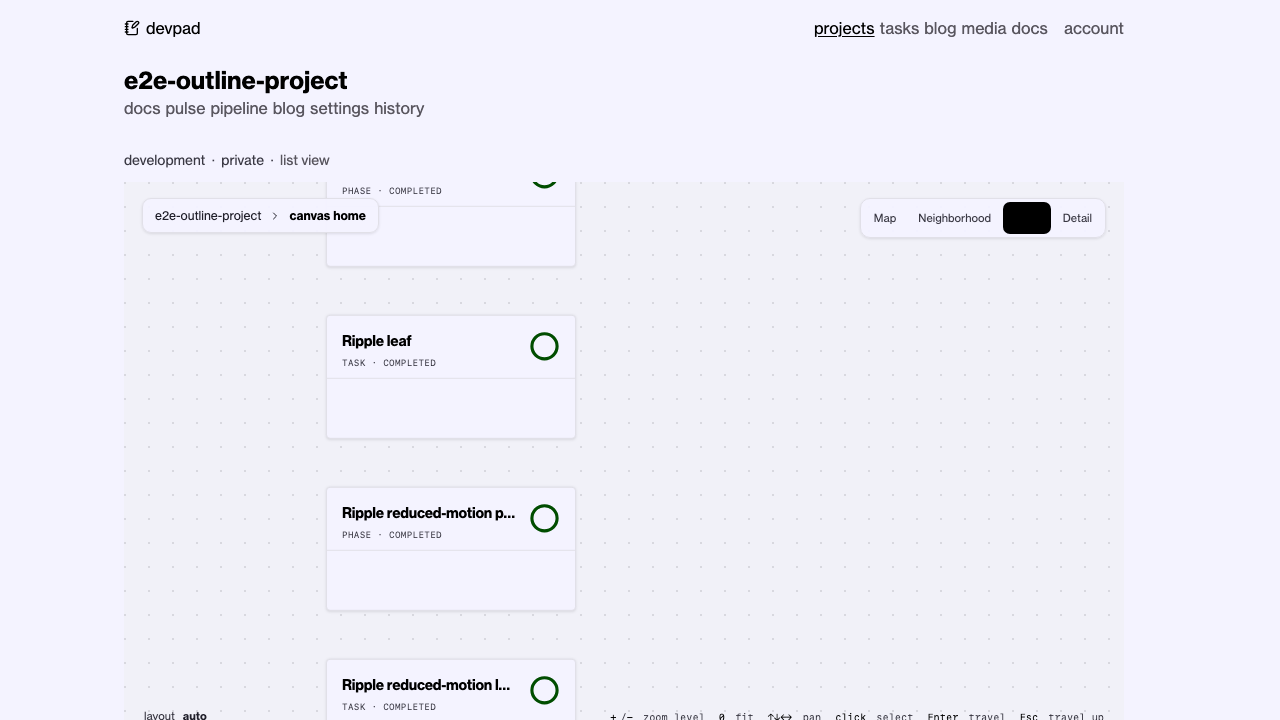
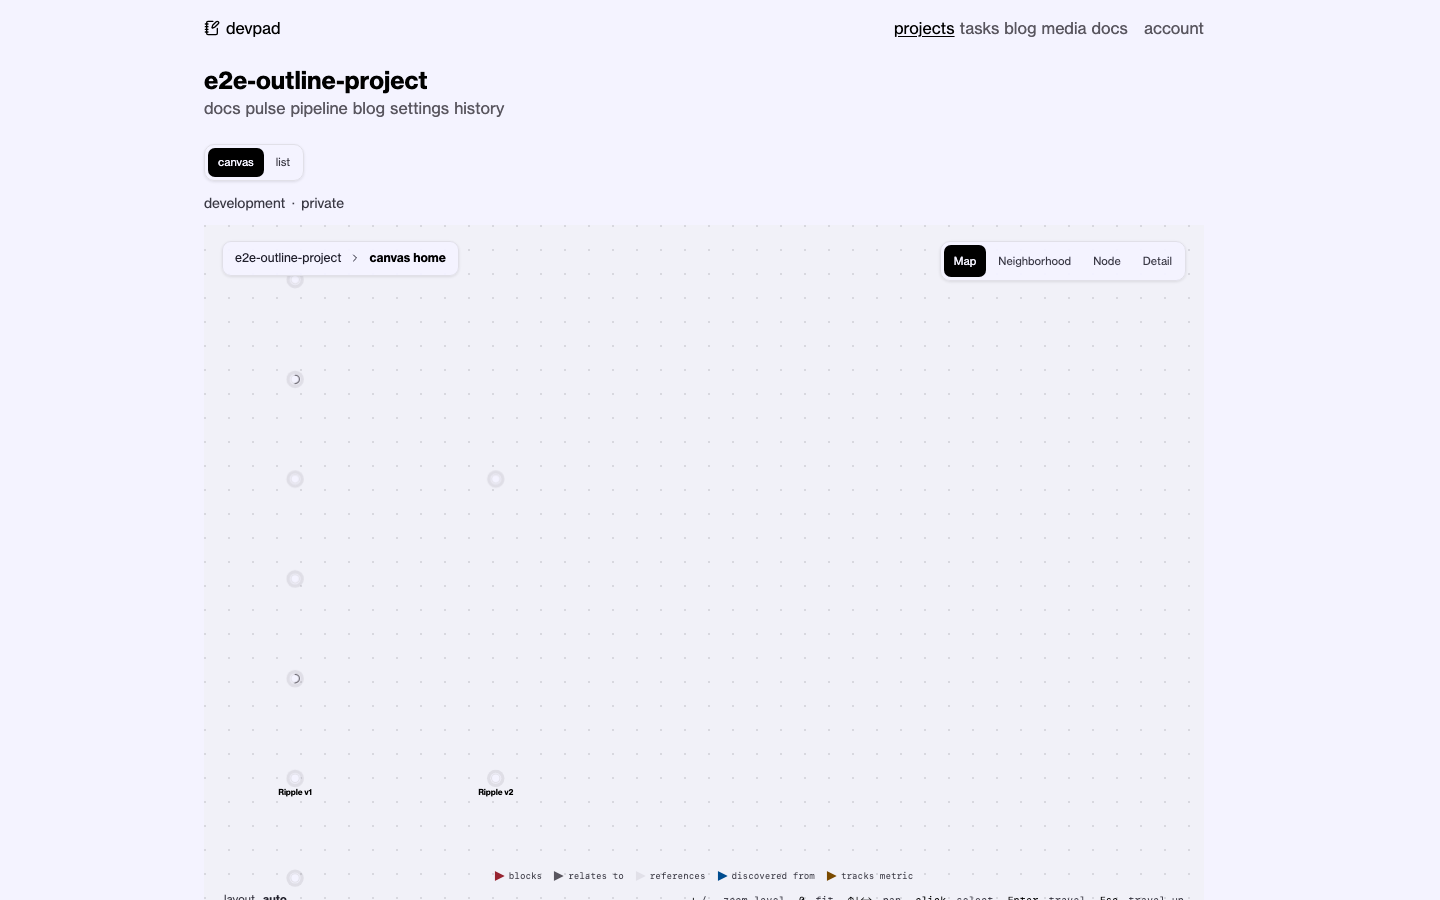
docs: canvas critic-fix pass notes + re-captured proof screenshots
motivation:
---
- record the critic-fix pass's design decisions in AGENTS.md (mock-parity
  table, why the toggle isn't @f0rbit/ui's Tabs, the legend-row collision
  lesson) and refresh every canvas proof screenshot the fixes touched

approach:
---
- added a "Canvas critic-fix pass" subsection with a mock-parity table
  (built vs. mocked-only vs. deliberately deferred) and updated the
  `want_outline` description to reflect the cookie fallback
- re-ran `CAPTURE_CANVAS=1 TEST_ENV=local playwright test canvas-core.spec.ts
  canvas-projections.spec.ts` plus a throwaway capture script (same pattern
  as the original P4 home/mobile screenshots, per AGENTS.md's note that
  those were never a committed spec) for the home + 360px mobile shots

testing:
---
- visually reviewed every re-captured screenshot: active-level HUD label
  legible on hover, node/detail cards no longer empty chrome, top card
  unclipped under the toolbar, legend readable on its own row, mobile
  header no longer overlapping text

diff --git a/AGENTS.md b/AGENTS.md
@@ -735,12 +735,38 @@ canvas/
 ### Canvas P4 — IA absorption, mobile split, craft pass
 
 - **IA before/after**: tabs go `overview · work · docs · pulse · pipeline · blog · settings · history` (8) -> `docs · pulse · pipeline · blog · settings · history` (6). Canvas is now the project home at `/project/:id` itself — it never gets its own tab entry (same as `overview` never did); the project title in `ProjectLayout.astro` links back to it. `overview.astro` (new, defensive — no such route ever literally existed, `overview` was always the content AT `/project/:id`), `work.astro`, and `canvas.astro` all 301 to `/project/:id`, preserving `Astro.url.search`, per the same B1 redirect pattern (`goals.astro`/`tasks/index.astro` were repointed to redirect straight to the final destination instead of chaining through the old `/work` hop).
-- **The outline isn't gone — it's a `?view=list` mode of the SAME route, not a separate surface.** The canvas doesn't replicate the outline's row-level interactions (rename, edge-summary chips, milestone lens, keyboard-driven zoom breadcrumbs), so deleting `/work` outright would have been a real feature loss, not just an IA change. `index.astro` decides `want_outline = is_mobile || ?view=list` and branches its ENTIRE data-fetch + render between `loadOutline(...)` and `client.projects.graph(...)` — never fetches or renders both. A `?node=` deep link into a zoomed outline subtree survives the `/work` redirect (`work.astro` appends `&view=list` to the existing search rather than replacing it).
+- **The outline isn't gone — it's a `?view=list` mode of the SAME route, not a separate surface.** The canvas doesn't replicate the outline's row-level interactions (rename, edge-summary chips, milestone lens, keyboard-driven zoom breadcrumbs), so deleting `/work` outright would have been a real feature loss, not just an IA change. `index.astro` decides `want_outline = is_mobile || (view_param ? view_param === "list" : cookie_view === "list")` and branches its ENTIRE data-fetch + render between `loadOutline(...)` and `client.projects.graph(...)` — never fetches or renders both. A `?node=` deep link into a zoomed outline subtree survives the `/work` redirect (`work.astro` appends `&view=list` to the existing search rather than replacing it). A visible `.canvas-view-toggle` segmented control (plain SSR `<a>`s at the same visual weight as `.canvas-zoom-hud`, NOT the `@f0rbit/ui` `Tabs` component — that one is client-JS panel-switching, wrong tool for a control that swaps which SERVER-rendered surface loads) replaced a low-weight text link; picking either option writes a `canvas_view` cookie so a list-first user re-lands on the outline by default, but an explicit `?view=` in the URL always overrides the cookie.
 - **Mobile is a UA sniff at SSR time, not a client-side viewport check** (`utils/is-mobile-user-agent.ts`). A resize-based check can't gate which island's `<script>` tag Astro emits — that decision has to be made before the response is serialized, and Astro only emits an island's hydration bundle for islands actually invoked in that request's render. Verified empirically (not just visually): a Playwright run with a mobile UA + 360px viewport recorded zero network requests matching `canvas-surface` after the outline branch rendered. Known tradeoff, accepted: resizing a desktop window below 720px doesn't retroactively swap to the outline (unlike the outline's own pure-CSS `≤720px` reflow) — a real mobile device's UA is the case this needs to cover, not a resized desktop browser.
 - **Overview's content (description/status/visibility/repo link) moved into a `.canvas-home-hud` strip above the canvas surface**, not into the canvas node/detail panel — it's project-level metadata, not task-level, so it doesn't belong on any node. The pulse widget stays below the surface, unchanged.
 - **`/canvas` now redirects before the canvas island hydrates**, which added enough latency to occasionally push `canvas-projections.spec.ts`'s FIRST navigation in the file past a bare default-timeout `toBeVisible()` — bumped that one assertion's timeout to `10_000` to match the node-visibility check already in the same helper. (One occurrence of this looked at first like a real regression but was actually the ALREADY-DOCUMENTED seed-hygiene gotcha above — `AUTHENTICATION_ERROR` on the redirected page after several standalone `bunx playwright test <file>` invocations without reseeding in between. Reseeding fixed it; the timeout bump was the one genuine, small regression from adding the redirect.)
 - **Emoji-chip retirement**: the outline's `⛓`/`⚡` blocked/hook chips (raw emoji text) became lucide `Link2`/`Zap` icons, matching the icon-chip treatment the canvas node already used for stage/waiting/docs/pin/agent chips. `auto ⚙` and the `✓`/`✗` glyphs elsewhere were deliberately left alone — plain text/symbol characters, not colour emoji, used consistently as compact inline status marks — narrower scope than a full "no emoji anywhere" sweep.
 - **`canvas-projections.spec.ts` graduated into `e2e:ci`** after two consecutive clean local runs post-fix (previously only `canvas-core.spec.ts` was in the CI subset).
+
+### Canvas critic-fix pass — HUD toggle, LOD chrome, edge chips, fit inset
+
+- **`blocked`/`ready` node chips are derived client-side** (`canvas-surface.tsx`'s `edge_chips_for`) from the graph's already-loaded `tasks`/`links` — a deliberate simplification of `packages/core/src/services/graph/edge-summary.ts`'s server-side `EdgeSummary`, dropping `hook`/`stale` (those need hook-table/`completed_via` data this surface doesn't load) rather than adding a fourth batched fetch alongside `projections.ts`.
+- **`camera.ts`'s `fit()` takes an optional `top_inset_px`** (also settable as `fit_top_inset_px` on `create_camera()`, so the `0`-key shortcut inherits the same inset without a per-call arg) so the initial auto-fit doesn't frame the top card under the toolbar/breadcrumb strip.
+- **`.canvas-legend` lives on its OWN row (`bottom: 44px`), not sharing `.canvas-layout-status`/`.canvas-hintbar`'s row (`bottom: 19px`)** — sharing a row collided the legend's centered items into the hintbar's right-aligned ones on any viewport narrower than their combined width; caught only by actually reading a re-captured screenshot, not by the passing e2e specs (DOM-presence assertions don't catch visual overlap).
+- **`packages/core/src/ui/styles/globals.css`'s `.unified-header__row1` gained `flex-wrap: wrap`** — the 360px mobile header collision flagged in the P4 close-out (`task_8d114f90`) was a one-line fix after all; this file is the SHARED header across every app on the platform (source-imported, no build step), so the change's blast radius is every app, not just devpad's canvas page.
+- **Mock (`.plans/canvas-mock.html`) parity** — what's built vs. still mocked-only vs. deliberately deferred:
+
+| UX-contract element | Status |
+|---|---|
+| 4-level semantic zoom (map/neighborhood/node/detail) | Built |
+| Dagre layout + drag-to-pin + view-state persistence | Built |
+| Status chip (done/in progress/unstarted) + blocked/ready edge chips | Built |
+| Stage/waiting/docs/pin/agent-created chips | Built |
+| Edge-kind legend (blocks/relates_to/discovered_from/references/tracks_metric) | Built |
+| canvas\|list HUD toggle, cookie-remembered | Built |
+| Sparkline (project-level `by_day`, not per-task) | Built (simplified — see P3's `projections.ts` note) |
+| Directional `.edge_indicator` arrows ("more work" north/east/south/west) | Mocked only — not implemented |
+| `.lens_panel` (graph lens: blocked/ready/tracked-edge counts, `g` key) | Mocked only — not implemented |
+| `.toast` transient notifications | Mocked only — not implemented |
+| Ripple/bubbling visual choreography on graph changes | Mocked only — not implemented |
+| `j`/`k`/`space`/`o`/`g` keyboard verbs (select/advance/add-child/lens) | Mocked only — real canvas uses arrows/+/-/0/Enter/Esc instead |
+| Ring `%` label text (mock shows `${progress}%` next to the ring) | Mocked only — real `CanvasNode` renders the ring with no adjacent label |
+| Amber "waiting" ring state (ring stroke color keyed to `waiting`) | Mocked only — real ring only distinguishes complete/incomplete |
+| Per-task pulse metric binding (`tracks_metric` link's `ref` column) | Deferred — real backend work, not a UI gap |
 
 # Debugging
 
